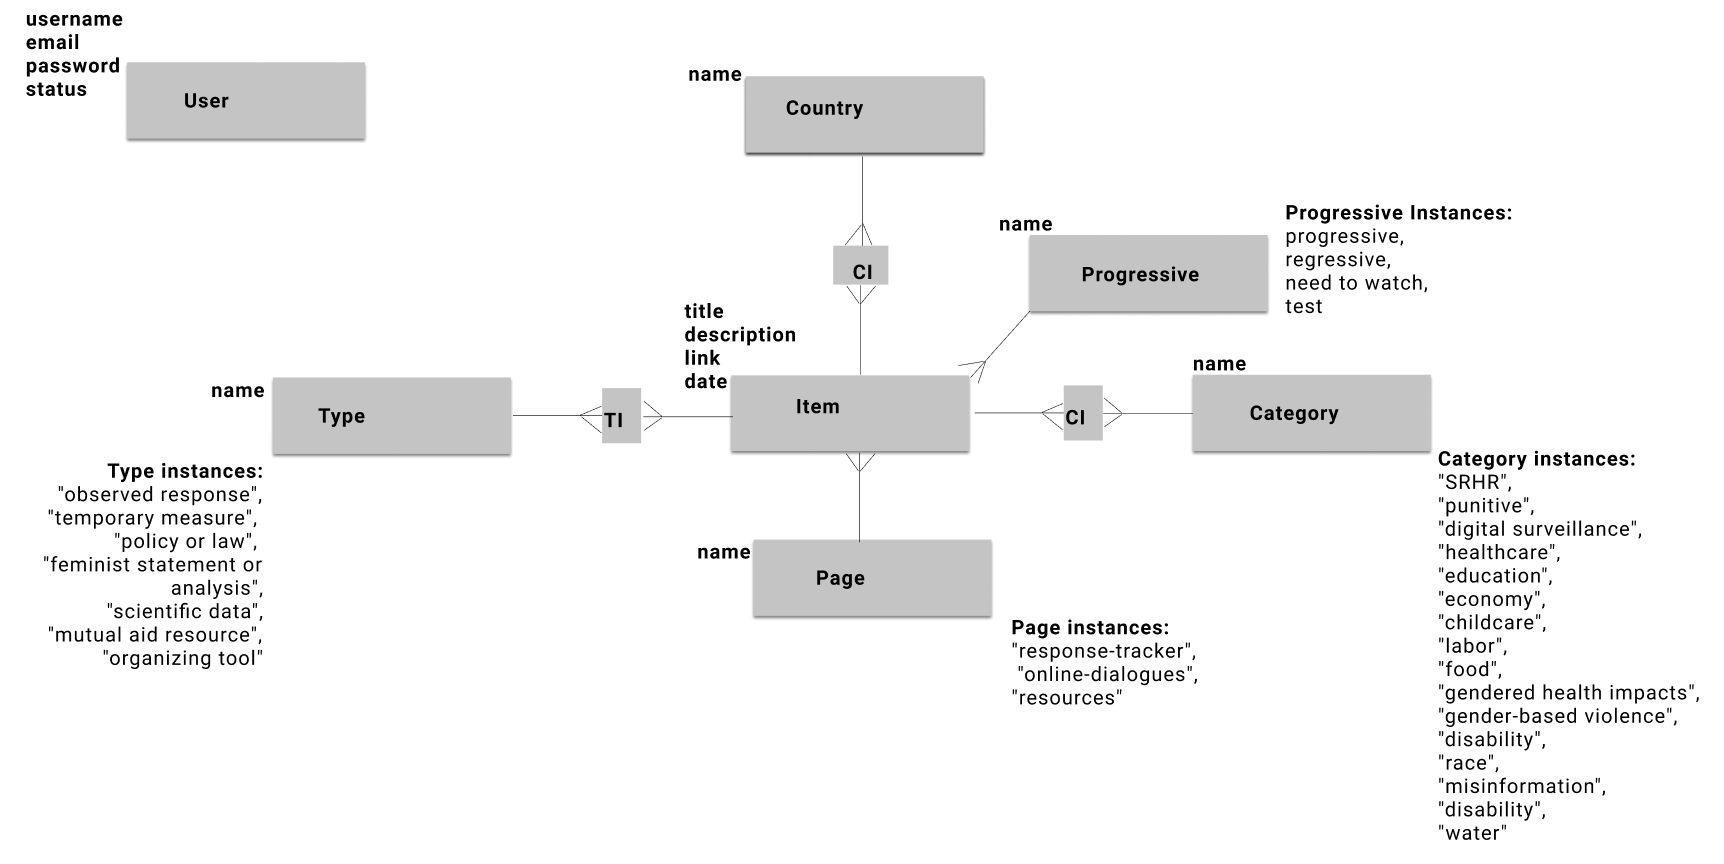
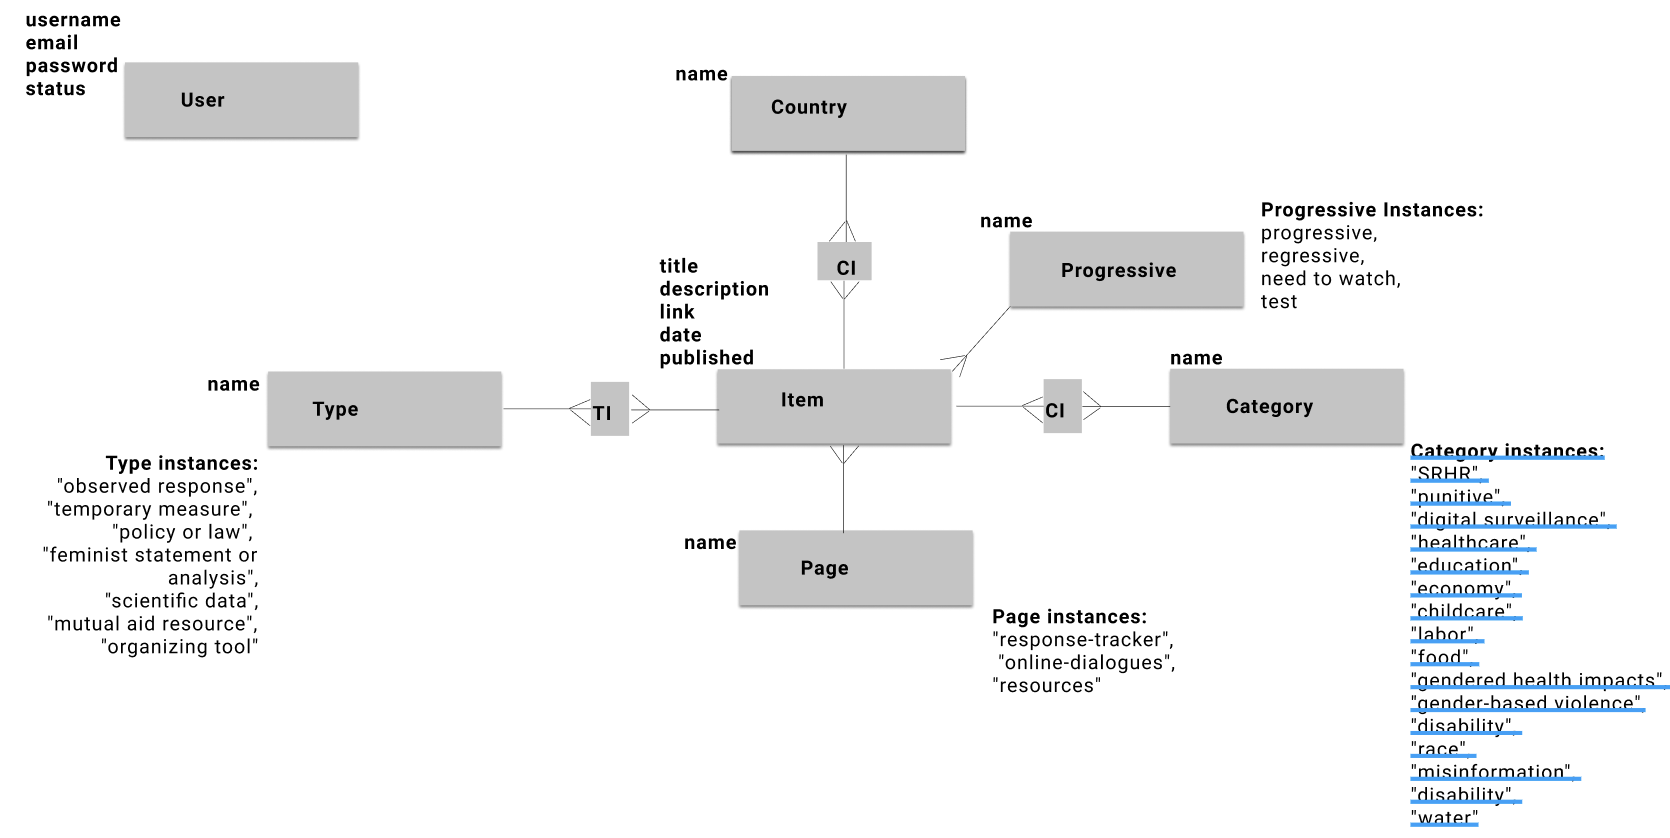
updates domain model image

diff --git a/db/seeds.rb b/db/seeds.rb
@@ -52,22 +52,6 @@ sylwia = User.create!(username: "sylwia2020", email:"sylwia2020@gmail.com", pass
 puts "users done"
 
 
-############### ITEMS ###############
-# firstItem = Item.create!(title: "test", description: "desc", link: "link", date:50920, progressive_id:Progressive.all[0].id, page_id: Page.all[0].id)
-
-# secondItem = Item.create!(title: "test2", description: "desc2", link: "link2", date:50920, progressive_id:Progressive.all[1].id, page_id: Page.all[1].id)
-
-puts "items done"
-
-
-############### TYPE_ITEMS ###############
-# firstTI = TypeItem.create!(type_id: Type.all[0].id, item_id: firstItem.id )
-
-# secondTI = TypeItem.create!(type_id: Type.all[1].id, item_id: firstItem.id )
-
-puts "type items done"
-
-
 ############# COUNTRIES ##################
     countries = ["Afghanistan",
     "Albania",
@@ -332,14 +316,8 @@ countries.each{|c| Country.create!(name: c)}
 
 puts "countries done"
 
-############# COUNTRIES_ITEMS ##################
-# firstCI = CountryItem.create!(item_id: Item.first.id, country_id: Country.all[100].id)
-# secondCI = CountryItem.create!(item_id: Item.first.id, country_id: Country.all[90].id)
-# thirdCI = CountryItem.create!(item_id: Item.second.id, country_id: Country.all[80].id)
 
-puts "country items done"
-
-################# EXCEL - ROUND 1 ################
+################# ITEMS ################
 
 
 response_data = [
